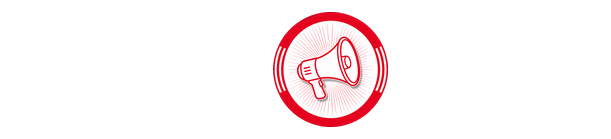
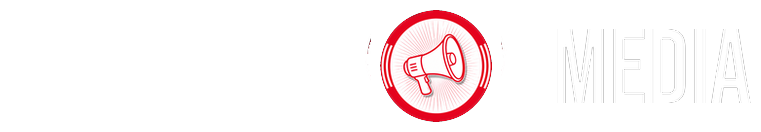
DRAFT: /media gold lockup PNG masthead (kill black box) (#164)
* fix(media): swap /media masthead to theme-aware lockup PNG pair

Kill the CSS-composed EVOLVED + megaphone disc + MEDIA mark (black-box
disc). Media chrome now uses the dest lockup img pair with the same
--on-dark / --on-light swap as Fit. Gold v5 SHA-256 is pinned; dest
bytes are still the prior pair until a file-exact ferry lands.

ASK-ALWAYS. Stay DRAFT. Do not merge.

* fix(media): type the gold lockup SHA gate so tsc can pass

ASK-ALWAYS. Stay DRAFT.

* chore(brand): ferry gold Media v5 lockup PNGs (SHA MATCH)

Byte-exact overwrite of media-lockup-dark.png and media-lockup-light.png
from the gold family v5 attachments. ASK-ALWAYS. Stay DRAFT.

---------

diff --git a/apps/web/lib/media/mastheadChrome.test.tsx b/apps/web/lib/media/mastheadChrome.test.tsx
@@ -4,7 +4,9 @@ import { fileURLToPath } from 'node:url'
 import { describe, expect, it } from 'vitest'
 import { renderToStaticMarkup } from 'react-dom/server'
 import { MediaMastheadLockup } from '@/components/media/Masthead'
-import { MEDIA_LOCKUP_LABEL, MEDIA_MEGAPHONE_DISC } from '@/lib/lockups'
+import { MEDIA_LOCKUP_DARK, MEDIA_LOCKUP_LABEL, MEDIA_LOCKUP_LIGHT } from '@/lib/lockups'
+
+const MEDIA_MEGAPHONE_DISC = '/brand/masthead/megaphone-disc.png'
 
 const here = dirname(fileURLToPath(import.meta.url))
 const src = readFileSync(resolve(here, '../../components/media/Masthead.tsx'), 'utf8')
@@ -21,12 +23,16 @@ describe('Media masthead chrome', () => {
     expect(src).not.toMatch(/George.?s Desk/)
   })
 
-  it('names the surface Evolved Pros Media and composes EVOLVED·PROS plus the Media lockup', () => {
+  it('names the surface Evolved Pros Media and uses the theme-swapped lockup PNG pair', () => {
     expect(MEDIA_LOCKUP_LABEL).toBe('Evolved Pros Media')
     expect(src).toContain('MEDIA_LOCKUP_LABEL')
-    expect(src).toContain('EpWordmarkMark')
-    expect(src).toContain('MEDIA_MEGAPHONE_DISC')
-    expect(src).toContain('ep-media-masthead-media')
+    expect(src).toContain('MEDIA_LOCKUP_DARK')
+    expect(src).toContain('MEDIA_LOCKUP_LIGHT')
+    expect(src).toContain('ep-media-masthead-logo--on-dark')
+    expect(src).toContain('ep-media-masthead-logo--on-light')
+    expect(src).not.toContain('EpWordmarkMark')
+    expect(src).not.toContain('MEDIA_MEGAPHONE_DISC')
+    expect(src).not.toContain('ep-media-masthead-media')
     expect(src).not.toMatch(/Abril Fatface|Playfair Display|font-abril/)
     expect(src).not.toMatch(/MEDIA_DESK_TAGLINE/)
     expect(src).not.toMatch(/Promoting evolution/)
@@ -34,13 +40,15 @@ describe('Media masthead chrome', () => {
     expect(src).not.toMatch(/Arial Black/)
   })
 
-  it('renders the wordmark, red megaphone, and Bebas MEDIA label', () => {
+  it('renders both theme lockup PNGs with the Media label and no composed text', () => {
     const html = renderToStaticMarkup(<MediaMastheadLockup />)
     expect(html).toContain(`aria-label="${MEDIA_LOCKUP_LABEL}"`)
-    expect(html).toContain('EVOLVED')
-    expect(html).toContain('PROS')
-    expect(html).toContain('MEDIA')
-    expect(html).toContain(MEDIA_MEGAPHONE_DISC)
+    expect(html).toContain(MEDIA_LOCKUP_DARK)
+    expect(html).toContain(MEDIA_LOCKUP_LIGHT)
+    expect(html.indexOf(MEDIA_LOCKUP_DARK)).toBeLessThan(html.indexOf(MEDIA_LOCKUP_LIGHT))
+    expect(html).not.toContain('EVOLVED')
+    expect(html).not.toContain('>MEDIA<')
+    expect(html).not.toContain(MEDIA_MEGAPHONE_DISC)
     expect(html).not.toContain('<svg')
     expect(html).not.toContain('#60A5FA')
     expect(html).not.toContain('Evolved Media')
@@ -86,6 +94,11 @@ describe('Media masthead chrome', () => {
     expect(css).not.toMatch(/\.ep-media-masthead[\s\S]{0,1800}#60A5FA/)
     expect(css).not.toMatch(/\.ep-media-masthead[\s\S]{0,1800}--brand-blue/)
     expect(css).not.toMatch(/\.ep-media-masthead-mark \{[\s\S]*background: var\(--brand-red\)/)
+    expect(css).toMatch(/\.ep-media-masthead-logo,[\s\S]*background: transparent/)
+    expect(css).not.toMatch(/\.ep-media-masthead-lockup/)
+    expect(css).not.toMatch(/\.ep-media-masthead-pros/)
+    expect(css).not.toMatch(/\.ep-media-masthead-disc/)
+    expect(css).not.toMatch(/\.ep-media-masthead-media \{/)
   })
 
   it('does not host-branch /media chrome and keeps utility links on theme tokens', () => {

diff --git a/apps/web/lib/lockups.ts b/apps/web/lib/lockups.ts
@@ -1,18 +1,17 @@
 /**
- * Media + Fit masthead lockups. Canonical assets are the theme-pair PNGs
- * (v4 equal letter height, George lock 2026-09-12).
- * Fit: EVOLVED PR + barbell disc (as O) + S FIT.
- * Media: EVOLVED + megaphone disc + MEDIA (no Pros).
- * Podcast LogoMark is unchanged. Type is Bebas Neue Regular.
+ * Media + Fit masthead lockups. Canonical Media assets are the family v5
+ * Layout A theme-pair PNGs (George MATCH YES 2026-09-13 / gold ferry
+ * 2026-09-19): EVOLVED PR [megaphone disc] S MEDIA.
+ * Fit still uses its PNG pair (EVOLVED PR [barbell disc] S FIT).
+ * Podcast LogoMark is unchanged. Type is Bebas Neue Regular (baked in PNG).
  *
- * Live Fit marks swap the full lockup PNGs the same way FooterLogo / the loader
- * do (CSS --on-dark / --on-light). Media home chrome is EVOLVED·PROS (red ·)
- * plus the Media lockup (Bebas MEDIA + red megaphone disc). Surface name is
- * Evolved Pros Media. Fit still uses the PNG pair. Do not type a period
- * in place of ·.
+ * Live marks swap the full lockup PNGs the same way FooterLogo / the loader
+ * do (CSS --on-dark / --on-light). Do not compose a third HTML+disc pattern.
+ * Do not type the family wordmark in Media chrome. Surface name stays
+ * Evolved Pros Media.
  *
  * File names follow the chrome they sit on, not George letter-color slang:
- *   *-dark.png  = white letters for dark --bg-nav
+ *   *-dark.png  = white letters for dark --bg-page
  *   *-light.png = navy letters for parchment / html.light-mode
  */
 
@@ -30,6 +29,18 @@ export const FIT_LOCKUP_LIGHT = '/brand/masthead/fit-lockup-light.png' as const
 
 export const MEDIA_LOCKUP_LABEL = 'Evolved Pros Media'
 export const FIT_LOCKUP_LABEL = 'Evolved Pros Fit'
+
+/** Family v5 lockup intrinsic size (gold Media PNGs). */
+export const LOCKUP_INTRINSIC_WIDTH = 1358
+export const LOCKUP_INTRINSIC_HEIGHT = 207
+
+/** File-exact SHA-256 of the gold Media v5 Layout A PNGs. Gate for MATCH. */
+export const GOLD_MEDIA_LOCKUP_SHA256 = {
+  'media-lockup-dark.png':
[1 lines of base64/hex data omitted]
+  'media-lockup-light.png':
[1 lines of base64/hex data omitted]
+} as const
 
 export const MASTHEAD_LOCKUP_ASSETS = [
   MEDIA_MEGAPHONE_DISC,

diff --git a/apps/web/components/media/Masthead.tsx b/apps/web/components/media/Masthead.tsx
@@ -1,30 +1,42 @@
-// Media masthead for /media. Phase 1 home: official wordmark (red interpunct)
-// plus Media lockup (Bebas MEDIA + red megaphone disc). Surface name is
-// Evolved Pros Media. Theme tokens carry light + dark. No host branch.
+// Media masthead for /media. Theme-swapped gold lockup PNG
+// (EVOLVED PR [megaphone disc] S MEDIA). Same FooterLogo / Fit CSS pair.
+// Not a composed HTML wordmark + disc + MEDIA label. No plate / navy island.
 
 import Link from 'next/link'
-import { EpWordmarkMark } from '@/components/brand/EpWordmark'
-import { MEDIA_LOCKUP_LABEL, MEDIA_MEGAPHONE_DISC } from '@/lib/lockups'
+import {
+  LOCKUP_INTRINSIC_HEIGHT,
+  LOCKUP_INTRINSIC_WIDTH,
+  MEDIA_LOCKUP_DARK,
+  MEDIA_LOCKUP_LABEL,
+  MEDIA_LOCKUP_LIGHT,
+} from '@/lib/lockups'
 import { MediaMastheadRail } from '@/components/media/MediaMastheadRail'
 
 export function MediaMastheadLockup() {
   return (
     <h1 className="ep-media-masthead-wordmark">
-      <Link href="/media" aria-label={MEDIA_LOCKUP_LABEL} className="ep-media-masthead-lockup">
-        <span className="ep-media-masthead-pros" data-testid="ep-wordmark">
-          <EpWordmarkMark />
-        </span>
+      <Link href="/media" aria-label={MEDIA_LOCKUP_LABEL}>
         {/* eslint-disable-next-line @next/next/no-img-element */}
         <img
-          className="ep-media-masthead-disc"
-          src={MEDIA_MEGAPHONE_DISC}
+          data-media-lockup-dark
+          className="ep-media-masthead-logo ep-media-masthead-logo--on-dark"
+          src={MEDIA_LOCKUP_DARK}
           alt=""
-          width={56}
-          height={56}
+          width={LOCKUP_INTRINSIC_WIDTH}
+          height={LOCKUP_INTRINSIC_HEIGHT}
           decoding="sync"
           {...{ fetchpriority: 'high' }}
         />
-        <span className="ep-media-masthead-media">MEDIA</span>
+        {/* eslint-disable-next-line @next/next/no-img-element */}
+        <img
+          data-media-lockup-light
+          className="ep-media-masthead-logo ep-media-masthead-logo--on-light"
+          src={MEDIA_LOCKUP_LIGHT}
+          alt=""
+          width={LOCKUP_INTRINSIC_WIDTH}
+          height={LOCKUP_INTRINSIC_HEIGHT}
+          decoding="sync"
+        />
       </Link>
     </h1>
   )

diff --git a/apps/web/app/globals.css b/apps/web/app/globals.css
@@ -2463,12 +2463,14 @@ a.ep-text-link:focus-visible {
    (--on-dark). Parchment / html.light-mode -> navy-letter *-light.png
    (--on-light). Same CSS on www and platform. Do not host-branch.
 
-   /media masthead is parchment (not a navy island). The #150 Media lockup
+   /media masthead is parchment (not a navy island). Gold Media lockup PNG
    spans the content width as a top-of-page masthead, not a tiny boxed chip.
-   Fit keeps --bg-nav. */
+   No plate / navy island behind the mark. Fit keeps --bg-nav. */
 .ep-media-masthead,
 .ep-fit-masthead {
   max-width: 100%;
+}
+.ep-fit-masthead {
   overflow-x: clip;
 }
 .ep-fit-masthead {
@@ -2570,47 +2572,20 @@ html.light-mode .ep-media-masthead {
 }
 .ep-media-masthead-wordmark a {
   width: 100%;
-}
-.ep-media-masthead-lockup {
-  display: flex;
-  align-items: center;
-  justify-content: center;
-  gap: 10px;
-  line-height: 1;
-  color: inherit;
-  text-decoration: none;
-}
-.ep-media-masthead-pros {
-  font-family: var(--font-barlow-condensed), "Barlow Condensed", sans-serif;
-  font-size: clamp(22px, 4.2vw, 36px);
-  font-weight: 700;
-  letter-spacing: 0.12em;
-  color: inherit;
-}
-.ep-media-masthead-disc {
-  width: clamp(28px, 5vw, 44px);
-  height: clamp(28px, 5vw, 44px);
-  object-fit: contain;
-  flex-shrink: 0;
-}
-.ep-media-masthead-media {
-  font-family: var(--font-bebas), "Bebas Neue", sans-serif;
-  font-size: clamp(28px, 5.4vw, 46px);
-  font-weight: 400;
-  letter-spacing: 0.06em;
-  line-height: 1;
-  color: inherit;
+  background: transparent;
 }
 .ep-media-masthead-logo,
 .ep-fit-masthead-logo {
   width: auto;
   max-width: 100%;
   object-fit: contain;
+  background: transparent;
 }
 .ep-fit-masthead-logo {
   height: clamp(56px, 12vw, 96px);
 }
 .ep-media-masthead-logo {
+  display: block;
   width: 100%;
   max-width: 100%;
   height: auto;

diff --git a/apps/web/lib/qaSweepFixes.test.ts b/apps/web/lib/qaSweepFixes.test.ts
@@ -53,18 +53,22 @@ describe('QA sweep P1 /media LCP', () => {
   const layout = read('app/(public)/media/layout.tsx')
   const css = read('app/globals.css')
 
-  it('preloads the Media megaphone and prioritizes the lockup disc', () => {
+  it('preloads the Media lockup PNG pair and prioritizes the dark lockup', () => {
     expect(layout).toContain('rel="preload"')
-    expect(layout).toContain('MEDIA_MEGAPHONE_DISC')
+    expect(layout).toContain('MEDIA_LOCKUP_DARK')
+    expect(layout).toContain('MEDIA_LOCKUP_LIGHT')
+    expect(layout).not.toContain('MEDIA_MEGAPHONE_DISC')
     expect(masthead).toMatch(/fetchpriority: 'high'/)
-    expect(masthead).toContain('MEDIA_MEGAPHONE_DISC')
+    expect(masthead).toContain('MEDIA_LOCKUP_DARK')
+    expect(masthead).toContain('MEDIA_LOCKUP_LIGHT')
+    expect(masthead).not.toContain('MEDIA_MEGAPHONE_DISC')
     expect(masthead).not.toMatch(/next\/image/)
   })
 
   it('keeps the official lockup PNG pair on disk and theme-aware Media chrome', () => {
     expect(MEDIA_LOCKUP_LIGHT).toBe('/brand/masthead/media-lockup-light.png')
     expect(MEDIA_LOCKUP_DARK).toBe('/brand/masthead/media-lockup-dark.png')
-    expect(css).toMatch(/\.ep-media-masthead-logo \{\n  width: 100%;\n  max-width: 100%;\n  height: auto;\n\}/)
+    expect(css).toMatch(/\.ep-media-masthead-logo \{\n  display: block;\n  width: 100%;\n  max-width: 100%;\n  height: auto;\n\}/)
     expect(css).toMatch(/\.ep-media-masthead \{[\s\S]*background: var\(--bg-page\)/)
     expect(css).toMatch(/html\.light-mode \.ep-media-masthead \{[\s\S]*background: var\(--paper\)/)
     expect(css).not.toMatch(/\.ep-media-masthead \{[\s\S]{0,240}background: var\(--navy/)

diff --git a/apps/web/lib/home/conversionHome.render.test.tsx b/apps/web/lib/home/conversionHome.render.test.tsx
@@ -12,7 +12,7 @@ import {
 import { EVENTS_LOGIN_HEADLINE, EVENTS_LOGIN_BODY, gatedIntentFor } from '@/lib/auth/gatedIntent'
 import { GatedIntentWall } from '@/components/auth/GatedIntentWall'
 import { MediaMastheadLockup } from '@/components/media/Masthead'
-import { MEDIA_LOCKUP_LABEL, MEDIA_MEGAPHONE_DISC } from '@/lib/lockups'
+import { MEDIA_LOCKUP_DARK, MEDIA_LOCKUP_LABEL, MEDIA_LOCKUP_LIGHT } from '@/lib/lockups'
 
 function foldCtasHtml(html: string): string {
   const start = html.indexOf('ep-home-fold-ctas')
@@ -90,12 +90,12 @@ describe('events login banner', () => {
 })
 
 describe('media parchment lockup', () => {
-  it('ships EVOLVED·PROS plus the Media lockup without an em dash', () => {
+  it('ships the theme-swapped lockup PNG pair without an em dash', () => {
     const html = renderToStaticMarkup(<MediaMastheadLockup />)
-    expect(html).toContain(MEDIA_MEGAPHONE_DISC)
-    expect(html).toContain('EVOLVED')
-    expect(html).toContain('MEDIA')
+    expect(html).toContain(MEDIA_LOCKUP_DARK)
+    expect(html).toContain(MEDIA_LOCKUP_LIGHT)
     expect(html).toContain(`aria-label="${MEDIA_LOCKUP_LABEL}"`)
+    expect(html).not.toContain('EVOLVED')
     expect(html).not.toContain('\u2014')
   })
 })

diff --git a/apps/web/lib/lockups.test.ts b/apps/web/lib/lockups.test.ts
@@ -1,3 +1,4 @@
+import { createHash } from 'node:crypto'
 import { existsSync, readFileSync } from 'node:fs'
 import { dirname, resolve } from 'node:path'
 import { fileURLToPath } from 'node:url'
@@ -8,6 +9,7 @@ import {
   FIT_BARBELL_DISC,
   FIT_LOCKUP_DARK,
   FIT_LOCKUP_LIGHT,
+  GOLD_MEDIA_LOCKUP_SHA256,
   MASTHEAD_LOCKUP_ASSETS,
   MEDIA_LOCKUP_DARK,
   MEDIA_LOCKUP_LIGHT,
@@ -27,6 +29,18 @@ describe('Media + Fit lockup assets', () => {
       const abs = publicFile(asset)
       expect(existsSync(abs), abs).toBe(true)
       expect(readFileSync(abs).byteLength, abs).toBeGreaterThan(8)
+    }
+  })
+
+  it('ferries file-exact gold Media v5 lockup PNGs (SHA-256 MATCH)', () => {
+    const dests = [
+      ['media-lockup-dark.png', MEDIA_LOCKUP_DARK],
+      ['media-lockup-light.png', MEDIA_LOCKUP_LIGHT],
+    ] as const
+    for (const [name, urlPath] of dests) {
+      const abs = publicFile(urlPath)
+      const sha = createHash('sha256').update(readFileSync(abs)).digest('hex')
+      expect(sha, `${name} must be the gold v5 file`).toBe(GOLD_MEDIA_LOCKUP_SHA256[name])
     }
   })
 

diff --git a/apps/web/app/(public)/media/layout.tsx b/apps/web/app/(public)/media/layout.tsx
@@ -1,13 +1,14 @@
 import { Masthead } from '@/components/media/Masthead'
-import { MEDIA_MEGAPHONE_DISC } from '@/lib/lockups'
+import { MEDIA_LOCKUP_DARK, MEDIA_LOCKUP_LIGHT } from '@/lib/lockups'
 
 export default function MediaLayout({ children }: { children: React.ReactNode }) {
   // Theme-aware desk. Light uses cream paper. Dark uses platform page tokens.
   // Overflow is clipped here so every /media/* route inherits the mobile
-  // scrollWidth fix. Preload the megaphone disc used in the Media lockup.
+  // scrollWidth fix. Preload both theme lockup PNGs (no megaphone-disc).
   return (
     <div className="min-h-screen media-desk-root ep-no-x-scroll" style={{ maxWidth: '100vw' }}>
-      <link rel="preload" as="image" href={MEDIA_MEGAPHONE_DISC} {...{ fetchpriority: 'high' }} />
+      <link rel="preload" as="image" href={MEDIA_LOCKUP_DARK} {...{ fetchpriority: 'high' }} />
+      <link rel="preload" as="image" href={MEDIA_LOCKUP_LIGHT} />
       <Masthead />
       <div className="media-desk-shell">{children}</div>
     </div>

diff --git a/apps/web/lib/media/newspaperHome.test.ts b/apps/web/lib/media/newspaperHome.test.ts
@@ -17,10 +17,12 @@ describe('Phase 1 EPM←TT newspaper home', () => {
   const slot = read('../../components/media/MediaPartnerSlot.tsx')
   const page = read('../../app/(public)/media/page.tsx')
 
-  it('names the surface Evolved Pros Media and keeps the red-dot wordmark', () => {
+  it('names the surface Evolved Pros Media and uses the lockup PNG pair', () => {
     expect(MEDIA_LOCKUP_LABEL).toBe('Evolved Pros Media')
-    expect(masthead).toContain('EpWordmarkMark')
-    expect(masthead).toContain('MEDIA')
+    expect(masthead).toContain('MEDIA_LOCKUP_DARK')
+    expect(masthead).toContain('MEDIA_LOCKUP_LIGHT')
+    expect(masthead).toContain('MEDIA_LOCKUP_LABEL')
+    expect(masthead).not.toContain('EpWordmarkMark')
     expect(masthead).not.toContain('Evolved Media')
     expect(portal).toContain('Evolved Pros Media')
     expect(portal).not.toContain('Evolved Media')

diff --git a/apps/web/lib/layout/publicChrome.test.ts b/apps/web/lib/layout/publicChrome.test.ts
@@ -31,11 +31,13 @@ describe('public chrome wordmark', () => {
     }
   })
 
-  it('lets Media home compose EVOLVED·PROS plus the Media lockup', () => {
+  it('lets Media home use the theme-swapped lockup PNG pair', () => {
     const masthead = src('components/media/Masthead.tsx')
-    expect(masthead).toContain('EpWordmarkMark')
-    expect(masthead).toContain('MEDIA_MEGAPHONE_DISC')
-    expect(masthead).toContain('ep-media-masthead-media')
+    expect(masthead).toContain('MEDIA_LOCKUP_DARK')
+    expect(masthead).toContain('MEDIA_LOCKUP_LIGHT')
+    expect(masthead).toContain('ep-media-masthead-logo--on-dark')
+    expect(masthead).not.toContain('EpWordmarkMark')
+    expect(masthead).not.toContain('MEDIA_MEGAPHONE_DISC')
     expect(masthead).not.toMatch(/Abril Fatface|Playfair Display|font-abril/)
   })
 

diff --git a/apps/web/lib/media/newspaperPhase2.test.tsx b/apps/web/lib/media/newspaperPhase2.test.tsx
@@ -31,8 +31,10 @@ describe('Phase 2 EPM←TT article + section landings', () => {
 
   it('keeps Phase 1 masthead / chips / Evolved Pros Media naming', () => {
     expect(MEDIA_LOCKUP_LABEL).toBe('Evolved Pros Media')
-    expect(masthead).toContain('EpWordmarkMark')
-    expect(masthead).toContain('MEDIA')
+    expect(masthead).toContain('MEDIA_LOCKUP_DARK')
+    expect(masthead).toContain('MEDIA_LOCKUP_LIGHT')
+    expect(masthead).toContain('MEDIA_LOCKUP_LABEL')
+    expect(masthead).not.toContain('EpWordmarkMark')
     expect(rail).toContain('MEDIA_INDEX_SECTIONS')
     expect(MEDIA_INDEX_SECTIONS.map(s => s.label)).toEqual([
       'Strategy',
